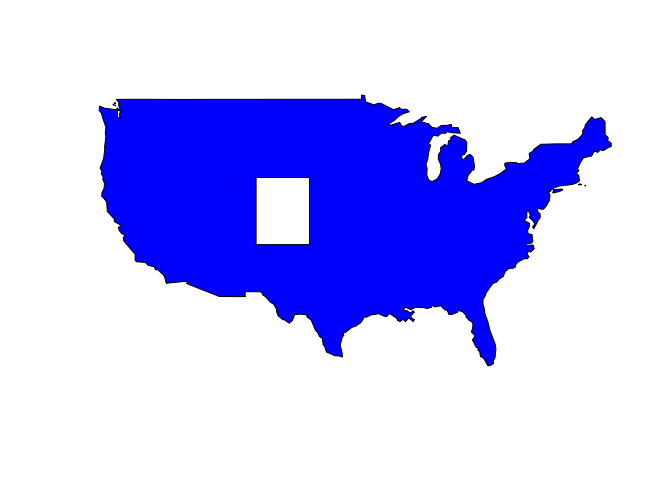
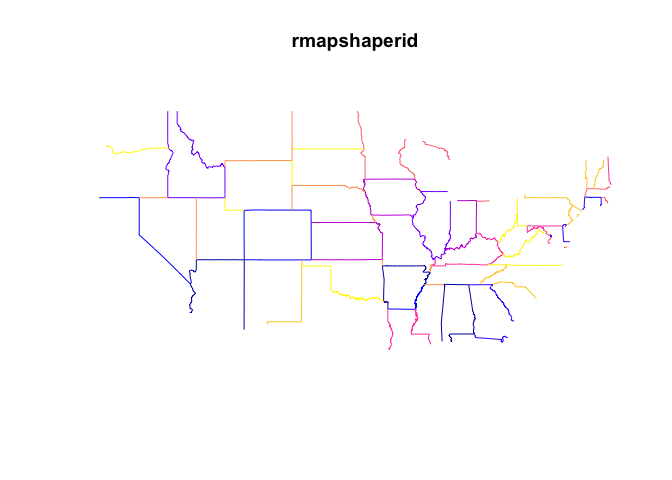
Add sf example to README

Changed region(s): [[0.125, 0.1875, 0.9062, 0.7812], [0.4375, 0.0625, 0.625, 0.125]]

diff --git a/README.md b/README.md
@@ -46,7 +46,7 @@ install_github("ateucher/rmapshaper")
 
 ### Usage
 
-rmapshaper works with geojson strings (character objects of class `geo_json`) and `list` geojson objects of class `geo_list`. These classes are defined in the `geojsonio` package. It also works with `Spatial` classes from the `sp` package.
+rmapshaper works with geojson strings (character objects of class `geo_json`) and `list` geojson objects of class `geo_list`. These classes are defined in the `geojsonio` package. It also works with `Spatial` classes from the `sp` package, and with `sf` and `scf` objects from the `sf` package.
 
 We will use the `states` dataset from the `geojsonio` package and first turn it into a `geo_json` object:
 
@@ -59,6 +59,8 @@ library(geojsonio)
 #>     pretty
 library(rmapshaper)
 library(sp)
+library(sf)
+#> Linking to GEOS 3.6.1, GDAL 2.2.0, proj.4 4.9.3, lwgeom 2.3.2 r15302
 
 ## First convert to json
 states_json <- geojson_json(states, geometry = "polygon", group = "group")
@@ -105,7 +107,19 @@ plot(states_gsimp)
 
 ![](tools/readme/unnamed-chunk-4-1.png)
 
-All of the functions are quite fast with `geo_json` character objects and `geo_list` list objects. They are slower with the `Spatial` classes due to internal conversion to/from json. If you are going to do multiple operations on large `Spatial` objects, it's recommended to first convert to json using `geojson_list` or `geojson_json` from the `geojsonio` package. All of the functions have the input object as the first argument, and return the same class of object as the input. As such, they can be chained together. For a totally contrived example, using `states_sp` as created above:
+The package also works with `sf` objects. This time we'll demonstrate the `ms_innerlines` function:
+
+``` r
+library(sf)
+
+states_sf <- st_as_sf(states_sp)
+states_sf_innerlines <- ms_innerlines(states_sf)
+plot(states_sf_innerlines)
+```
+
+![](tools/readme/unnamed-chunk-5-1.png)
+
+All of the functions are quite fast with `geo_json` character objects and `geo_list` list objects. They are slower with the `Spatial` classes due to internal conversion to/from json. Operating on `sf` objects is faster than with `Spatial` objects, but not as fast as with the `geo_json` or `geo_list`. If you are going to do multiple operations on large `Spatial` objects, it's recommended to first convert to json using `geojson_list` or `geojson_json` from the `geojsonio` package. All of the functions have the input object as the first argument, and return the same class of object as the input. As such, they can be chained together. For a contrived example, using `states_sp` as created above:
 
 ``` r
 library(geojsonio)
@@ -125,11 +139,11 @@ states_json %>%
   plot(col = "blue") # plot
 ```
 
-![](tools/readme/unnamed-chunk-5-1.png)
+![](tools/readme/unnamed-chunk-6-1.png)
 
 ### Thanks
 
-This package uses the [V8](https://cran.r-project.org/package=V8) package to provide an environment in which to run mapshaper's javascript code in R. It relies heavily on all of the great spatial packages that already exist (especially `sp` and `rgdal`), the `geojsonio` package for converting between geo\_list, geo\_json, and `sp` objects, and the `jsonlite` package for converting between json strings and R objects.
+This package uses the [V8](https://cran.r-project.org/package=V8) package to provide an environment in which to run mapshaper's javascript code in R. It relies heavily on all of the great spatial packages that already exist (especially `sp` and `rgdal`), the `geojsonio` package for converting between `geo_list`, `geo_json`, and `sf` and `Spatial` objects, and the `jsonlite` package for converting between json strings and R objects.
 
 Thanks to [timelyportfolio](https://github.com/timelyportfolio) for helping me wrangle the javascript to the point where it works in V8. He also wrote the [mapshaper htmlwidget](https://github.com/timelyportfolio/mapshaper_htmlwidget), which provides access to the mapshaper web inteface, right in your R session. We have plans to combine the two in the future.
 
